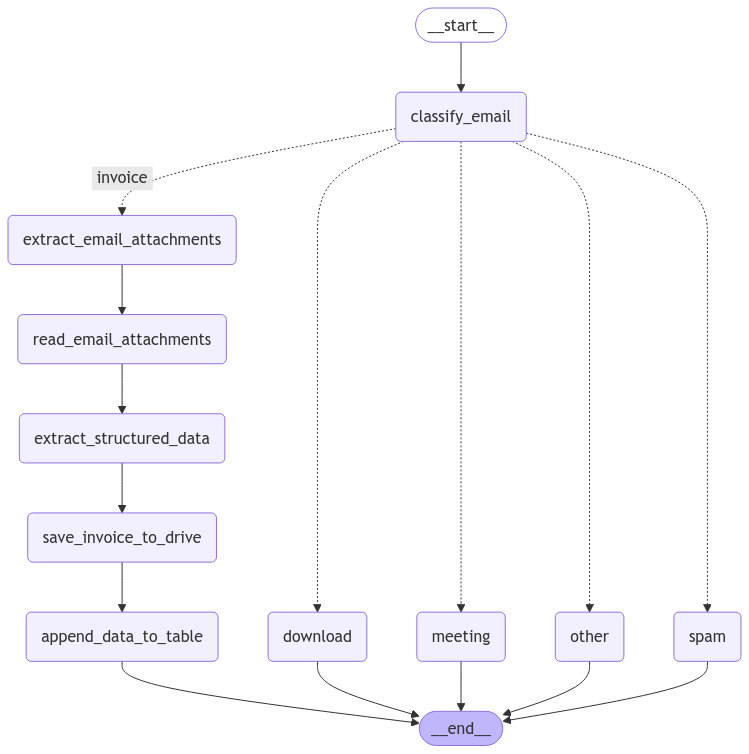
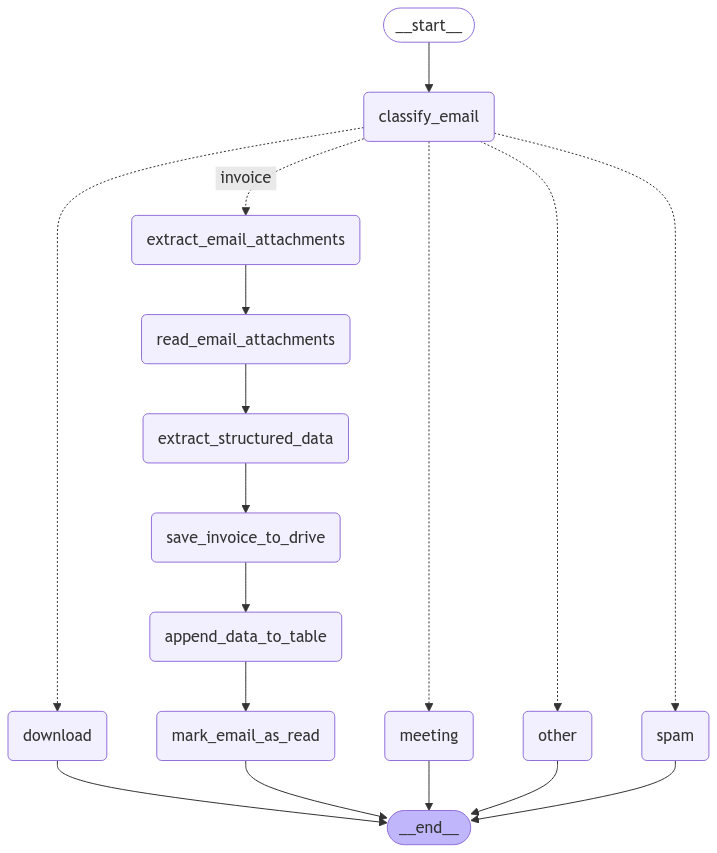
made it an azure function

diff --git a/langgraph_graph/setup_langgraph_graph.py b/langgraph_graph/setup_langgraph_graph.py
@@ -10,6 +10,7 @@ from nodes.spam import spam
 from nodes.classify_email import classify_email
 from nodes.extract_email_attachments import extract_email_attachments
 from nodes.upload_file_to_drive import upload_file_to_drive
+from nodes.mark_email_as_read import mark_email_as_read
 
 
 # Conditional edge function to route to the appropriate node
@@ -39,6 +40,7 @@ def build_graph() -> StateGraph:
     router_builder.add_node("extract_structured_data", extract_structured_data)
     router_builder.add_node("append_data_to_table", append_data_to_table)
     router_builder.add_node("save_invoice_to_drive", upload_file_to_drive)
+    router_builder.add_node("mark_email_as_read", mark_email_as_read)
     router_builder.add_node("spam", spam)
     router_builder.add_node("meeting", meeting)
     router_builder.add_node("download", download)
@@ -61,7 +63,8 @@ def build_graph() -> StateGraph:
     router_builder.add_edge("read_email_attachments", "extract_structured_data")
     router_builder.add_edge("extract_structured_data", "save_invoice_to_drive")
     router_builder.add_edge("save_invoice_to_drive", "append_data_to_table")
-    router_builder.add_edge("append_data_to_table", END)
+    router_builder.add_edge("append_data_to_table", "mark_email_as_read")
+    router_builder.add_edge("mark_email_as_read", END)
     router_builder.add_edge("spam", END)
     router_builder.add_edge("meeting", END)
     router_builder.add_edge("download", END)

diff --git a/api/azure_graph_api.py b/api/azure_graph_api.py
@@ -110,3 +110,32 @@ class AzureGraphApiClient:
         else:
             print("Error when accessing the Graph API:", response.text)
             return False
+
+    def mark_email_as_read(self, email_id):
+        """
+        Marks an email as read for the specified email account and email ID.
+
+        Args:
+            email_account (str): The email account to mark the email as read.
+            email_id (str): The ID of the email to mark as read.
+
+        Returns:
+            bool: True if the email was marked as read successfully, False otherwise.
+        """
+        graphApiEndpoint = f"https://graph.microsoft.com/v1.0/users/{self.email_account}/messages/{email_id}"
+        headers = {
+            "Authorization": f"Bearer {self.access_token}",
+            "Content-Type": "application/json",
+        }
+
+        payload = {"isRead": "true"}
+
+        response = requests.patch(
+            graphApiEndpoint, headers=headers, data=json.dumps(payload)
+        )
+
+        if response.status_code == 200:
+            return True
+        else:
+            print("Error when accessing the Graph API:", response.text)
+            return False

diff --git a/assistant.py b/assistant.py
@@ -4,11 +4,14 @@ from api.azure_graph_api import AzureGraphApiClient
 
 from langgraph_graph.setup_langgraph_graph import build_graph
 from models.state import State
+import logging
 
 
 def main():
     load_dotenv()
     email_account = os.getenv("EMAIL_ACCOUNT")
+
+    logging.info("Checking E-Mail Account" + email_account)
 
     if not email_account:
         print("EMAIL_ACCOUNT environment variable not set.")
@@ -34,5 +37,6 @@ def main():
         graph.invoke(state)
 
 
-if __name__ == "__main__":
-    main()
+# for debugging
+# if __name__ == "__main__":
+#     main()

diff --git a/function_app.py b/function_app.py
@@ -1,0 +1,20 @@
+import logging
+import azure.functions as func
+from assistant import main
+
+app = func.FunctionApp()
+
+
+@app.timer_trigger(
+    schedule="0 */30 6-21 * * *",
+    arg_name="myTimer",
+    run_on_startup=False,
+    use_monitor=False,
+)
+def check_emails(myTimer: func.TimerRequest) -> None:
+    if myTimer.past_due:
+        logging.info("The timer is past due!")
+
+    logging.info("Python timer trigger function executed.")
+
+    main()

diff --git a/nodes/mark_email_as_read.py b/nodes/mark_email_as_read.py
@@ -1,0 +1,12 @@
+from api.google_vision_ai_api import detect_text_from_image
+from models.state import State
+from api.azure_graph_api import AzureGraphApiClient
+
+
+def mark_email_as_read(state: State):
+
+    emailId = state["email"]["id"]
+
+    azureGraphClient: AzureGraphApiClient = state["azureGraphClient"]
+
+    azureGraphClient.mark_email_as_read(emailId)
